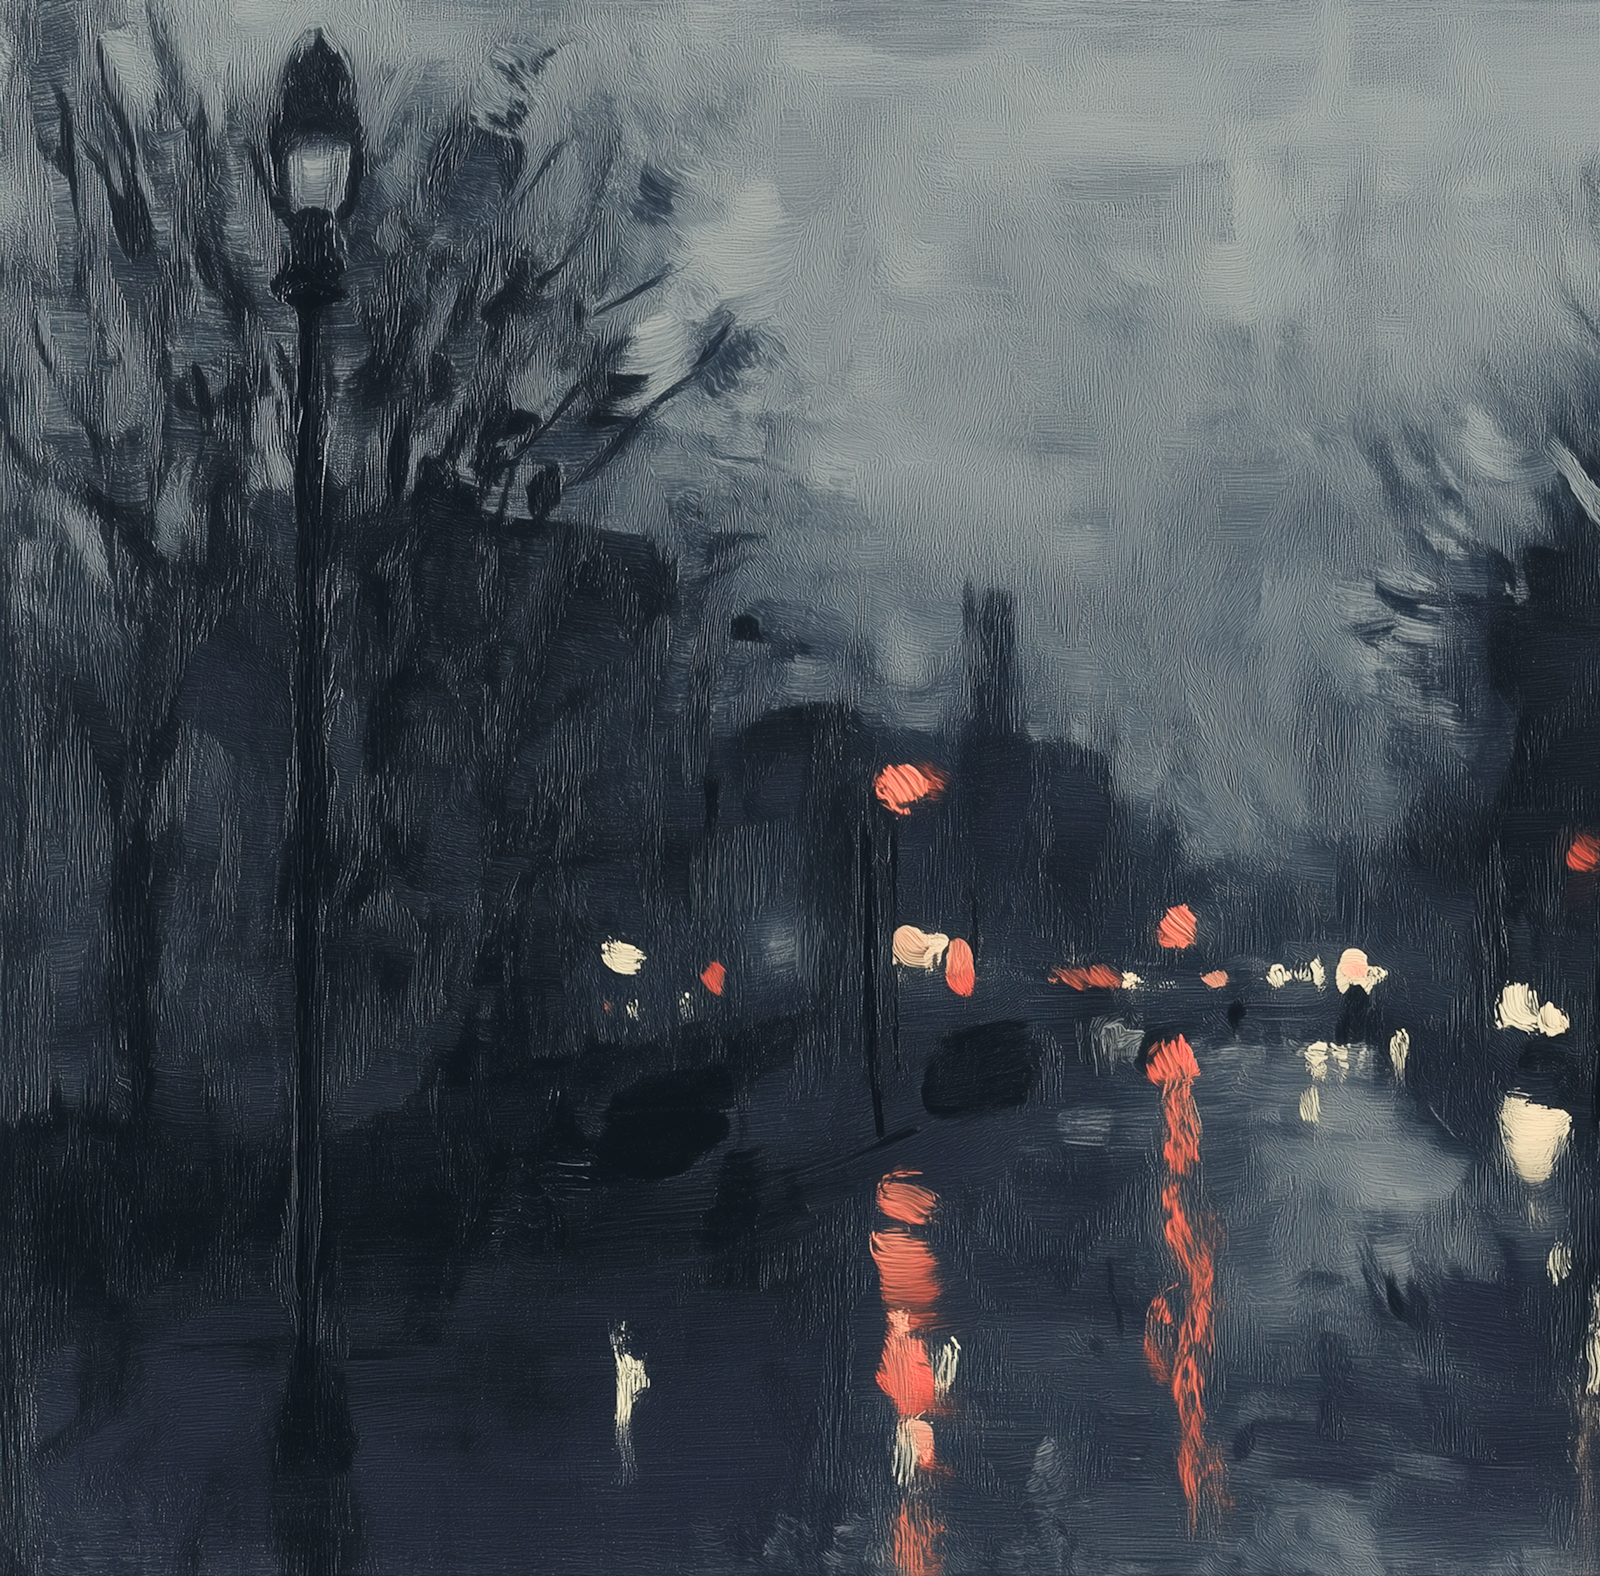
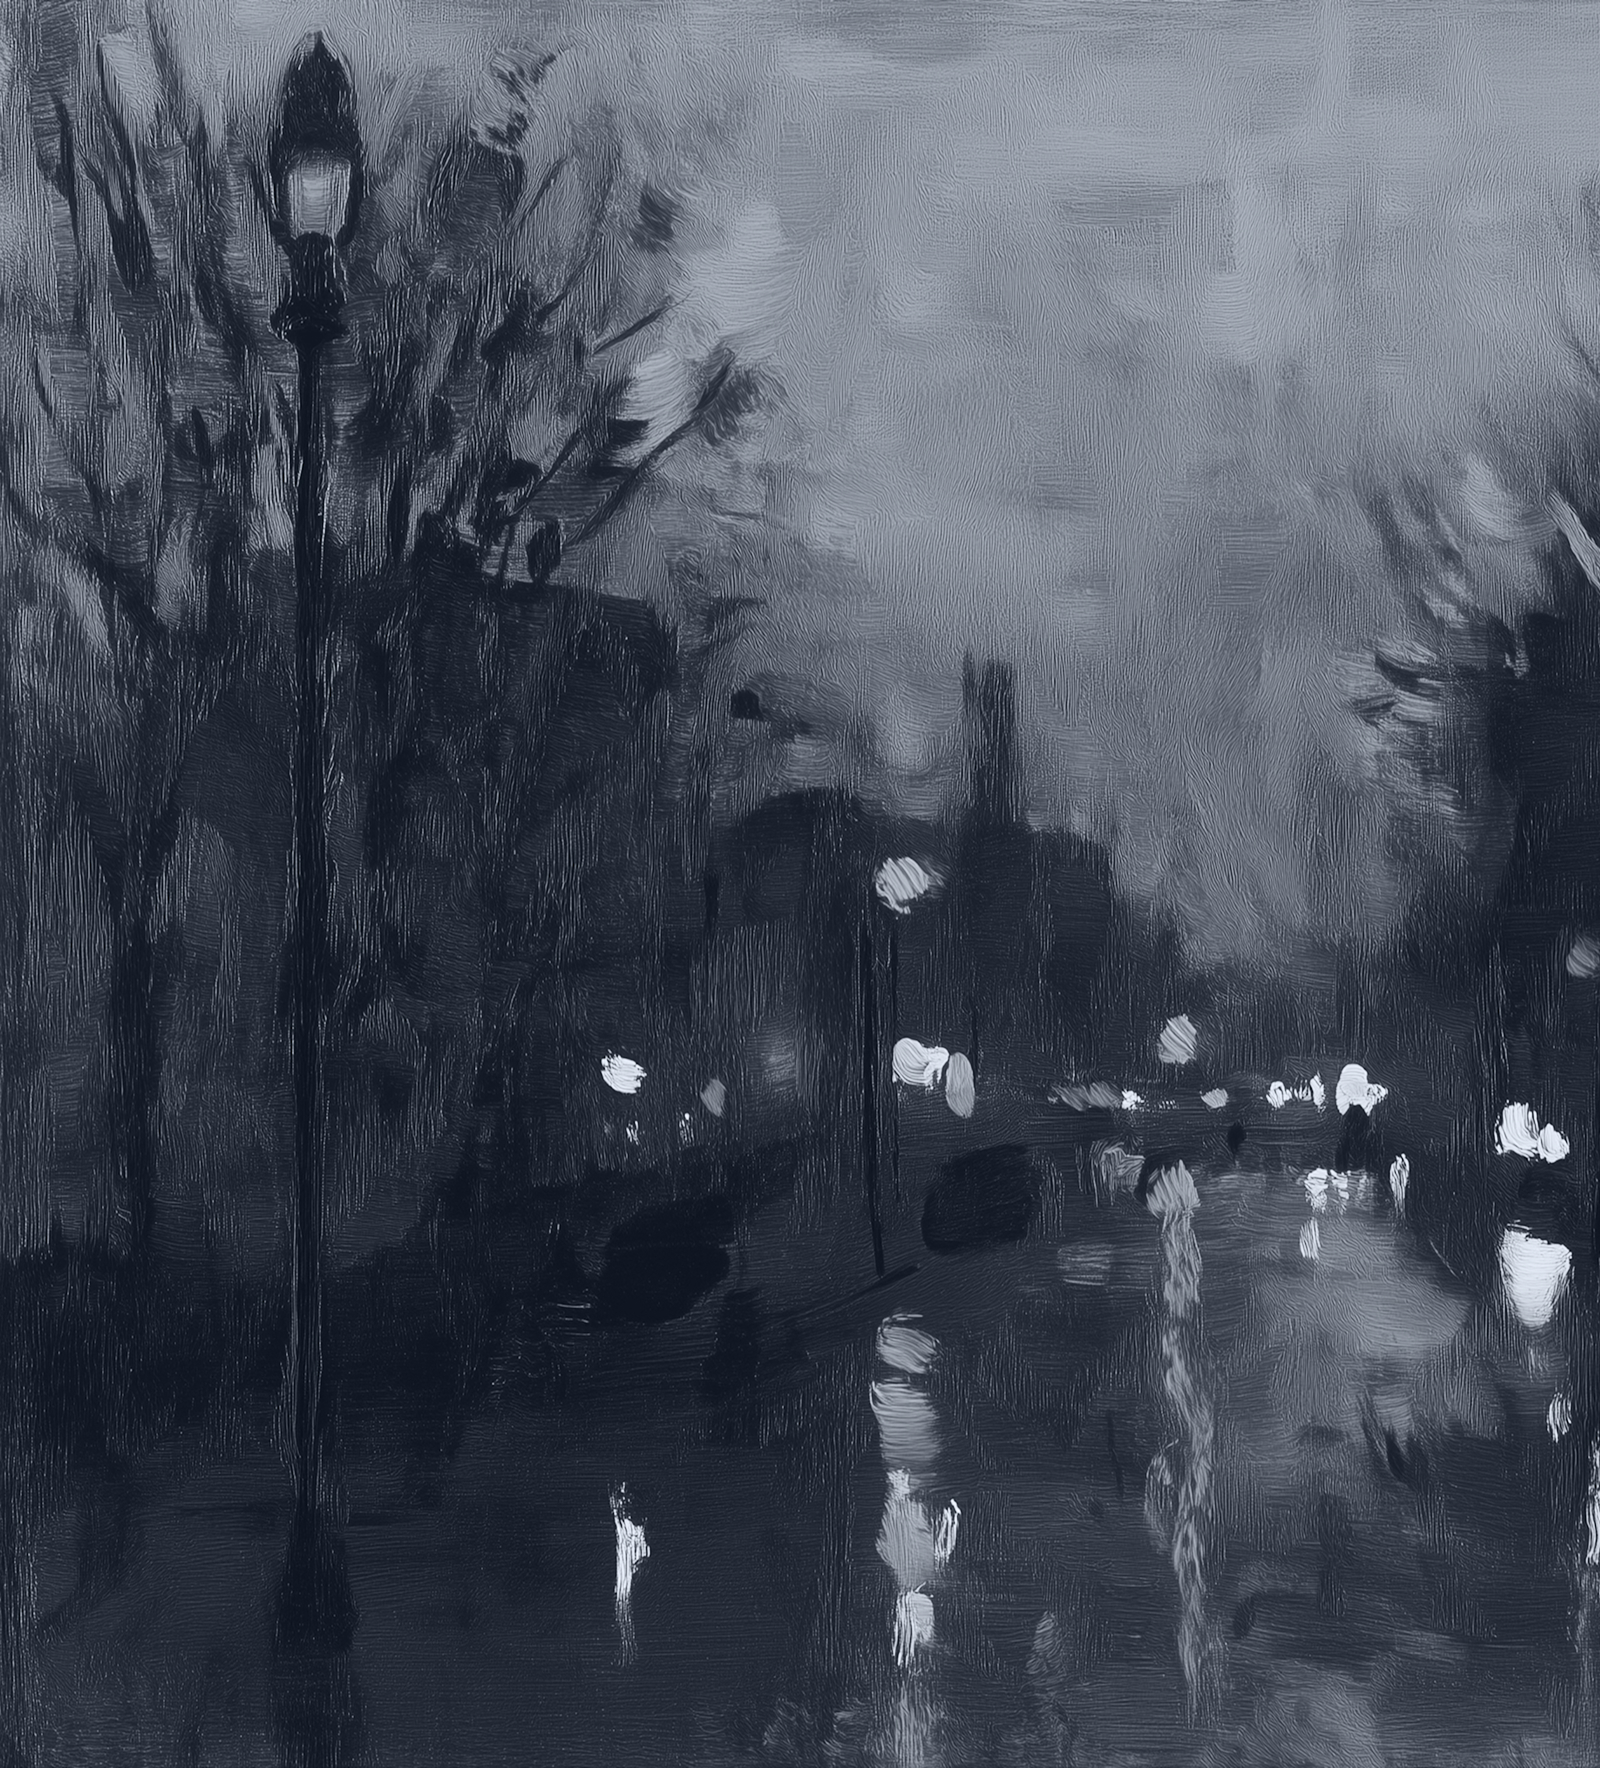
app-leads-v2: increase modal width to 820px, panels to 410px, right panel padding to 32px

diff --git a/app/app-leads-v2/page.tsx b/app/app-leads-v2/page.tsx
@@ -344,7 +344,7 @@ function ListBanner({ onOpen }: { onOpen: () => void }) {
         tabIndex={0}
         onClick={onOpen}
         onKeyDown={(e) => e.key === "Enter" && onOpen()}
-        className="group/banner flex h-[72px] w-full cursor-pointer items-center gap-[8px] overflow-clip rounded-[4px] border border-solid bg-white pl-[12px] pr-[18px] py-[12px]"
+        className="group/banner flex h-[72px] w-full cursor-pointer items-center gap-[8px] overflow-clip rounded-[4px] border border-solid bg-white pl-[12px] pr-[18px] py-[12px] transition-colors hover:bg-[#FAFAFA] active:bg-[#F7F7F8]"
         style={{ borderColor: tokens.grey40 }}
       >
         {/* Illustration — columns drift on banner hover, clipped by overflow-clip */}
@@ -378,7 +378,7 @@ function ListBanner({ onOpen }: { onOpen: () => void }) {
         </div>
 
         {/* Text */}
-        <div className="flex min-w-0 flex-1 flex-col gap-[4px]">
+        <div className="flex min-w-0 flex-1 flex-col gap-[2px]">
           <p
             className="truncate text-[13px] font-medium"
             style={{ color: tokens.black, letterSpacing: "-0.13px" }}
@@ -393,15 +393,6 @@ function ListBanner({ onOpen }: { onOpen: () => void }) {
           </p>
         </div>
 
-        {/* "Попробовать" — visual label only, click handled by parent wrapper */}
-        <div
-          className="flex shrink-0 items-center justify-center gap-[6px] rounded-[4px] px-[12px] py-[10px]"
-          style={{ backgroundColor: tokens.grey20 }}
-        >
-          <span className="text-[13px]" style={{ color: tokens.black, letterSpacing: "-0.13px" }}>
-            Попробовать
-          </span>
-        </div>
       </div>
     </div>
   );
@@ -535,18 +526,16 @@ function ModalLeftPanel({
     setStatus("loading");
     setTimeout(() => {
       setStatus("sent");
-      setTimeout(() => onSubmit(), 3000);
+      setTimeout(() => onSubmit(), 2000);
     }, 900);
   }
 
   return (
-    <div className="relative flex h-full w-[400px] shrink-0 flex-col items-center justify-center gap-[24px] overflow-visible rounded-l-[4px] bg-white p-[24px]">
+    <div className="relative flex h-full w-[410px] shrink-0 flex-col items-center justify-center gap-[24px] overflow-visible rounded-l-[4px] bg-white p-[32px]">
       <div className="flex w-full flex-col items-start gap-[12px]">
         <div className="flex w-full flex-col items-start gap-[6px]">
           {/* chip */}
-          <div className="flex items-center justify-center gap-[6px] overflow-clip rounded-[4px] p-[2px]">
-            {/* eslint-disable-next-line @next/next/no-img-element */}
-            <img src={leadAsset("ic-modal-chip.svg")} alt="" className="h-[12px] w-[12px] shrink-0" />
+          <div className="flex items-center justify-center overflow-clip rounded-[4px] p-[2px]">
             <span
               className="whitespace-nowrap text-[12px] font-medium"
               style={{ color: tokens.grey, letterSpacing: "-0.24px" }}
@@ -657,14 +646,14 @@ function ModalLeftPanel({
           type="button"
           disabled={!filled && status === "idle"}
           onClick={handleSubmit}
-          className="flex h-[36px] w-full items-center justify-center gap-[6px] overflow-hidden rounded-[4px] px-[12px] transition-colors duration-300"
-          style={{ backgroundColor: status === "sent" ? "#0D9655" : filled || status !== "idle" ? tokens.blue : "#809be3" }}
+          className="flex h-[36px] w-full items-center justify-center gap-[6px] overflow-hidden rounded-[4px] px-[12px]"
+          style={{ backgroundColor: status === "sent" ? "#0D9655" : filled || status !== "idle" ? "#212833" : "#636971" }}
         >
           {status === "loading" ? (
             <div className="h-[16px] w-[16px] rounded-full border-2 border-white border-t-transparent animate-spin" />
           ) : (
             <span
-              className="text-[13px] font-medium text-white text-center leading-[1.2]"
+              className="text-[13px] font-medium text-white text-center leading-[1.2] whitespace-nowrap"
               style={{ letterSpacing: "-0.13px" }}
             >
               {status === "sent" ? "Отправлено, свяжемся с вами в течение 24 часов" : "Отправить"}
@@ -702,7 +691,7 @@ function FeatureCard({ icon, label }: { icon: string; label: string }) {
 function ModalRightPanel({ onClose }: { onClose: () => void }) {
   return (
     <div
-      className="relative flex h-full w-[400px] shrink-0 flex-col items-start justify-center gap-[32px] overflow-clip rounded-r-[4px] p-[24px]"
+      className="relative flex h-full w-[410px] shrink-0 flex-col items-start justify-center gap-[32px] overflow-clip rounded-r-[4px] p-[32px]"
       style={{
         backgroundColor: "#2b2f3a",
         backgroundImage: `url(${leadAsset("modal-bg.jpg")})`,
@@ -804,7 +793,7 @@ function LeadsModal({ open, onClose }: { open: boolean; onClose: () => void }) {
       <div
         data-phase={phase}
         onClick={(e) => e.stopPropagation()}
-        className={`t-modal relative flex h-[426px] w-[800px] items-start rounded-[4px] bg-white${isOpen ? " is-open" : ""}${isClosing ? " is-closing" : ""}`}
+        className={`t-modal relative flex h-[442px] w-[820px] items-start rounded-[4px] bg-white${isOpen ? " is-open" : ""}${isClosing ? " is-closing" : ""}`}
         style={{ pointerEvents: isOpen ? "auto" : "none" }}
         role="dialog"
         aria-modal="true"